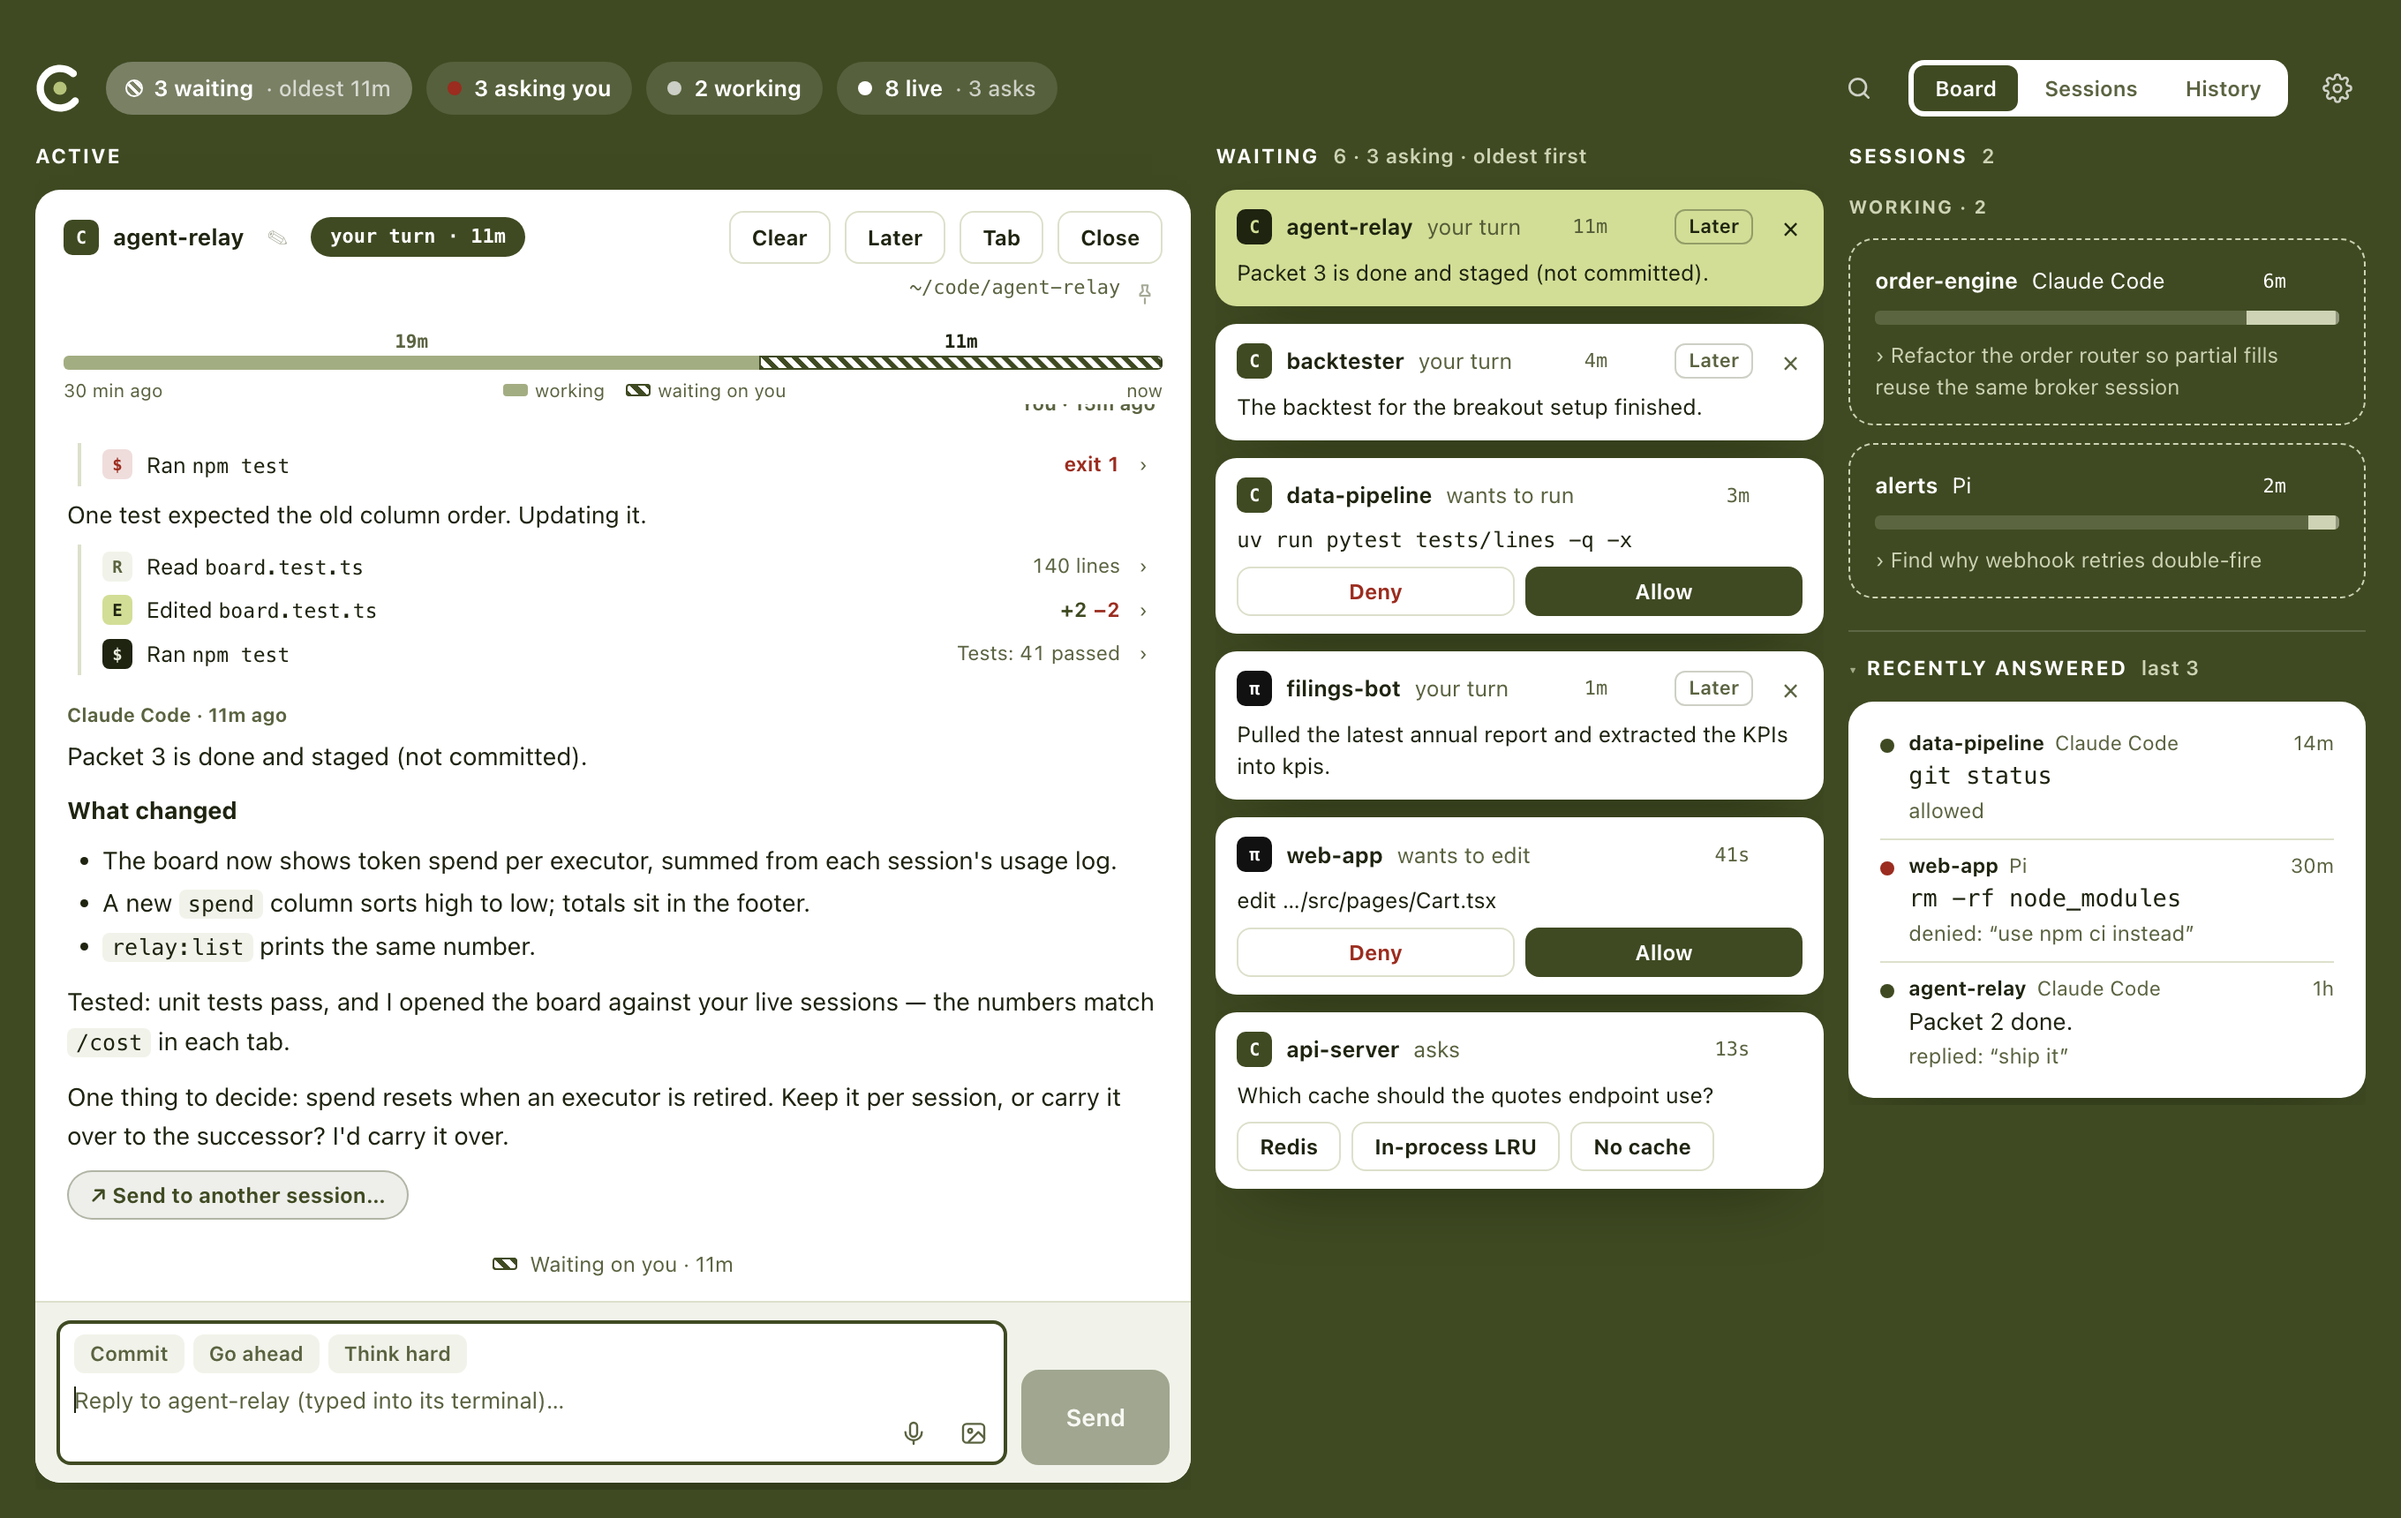
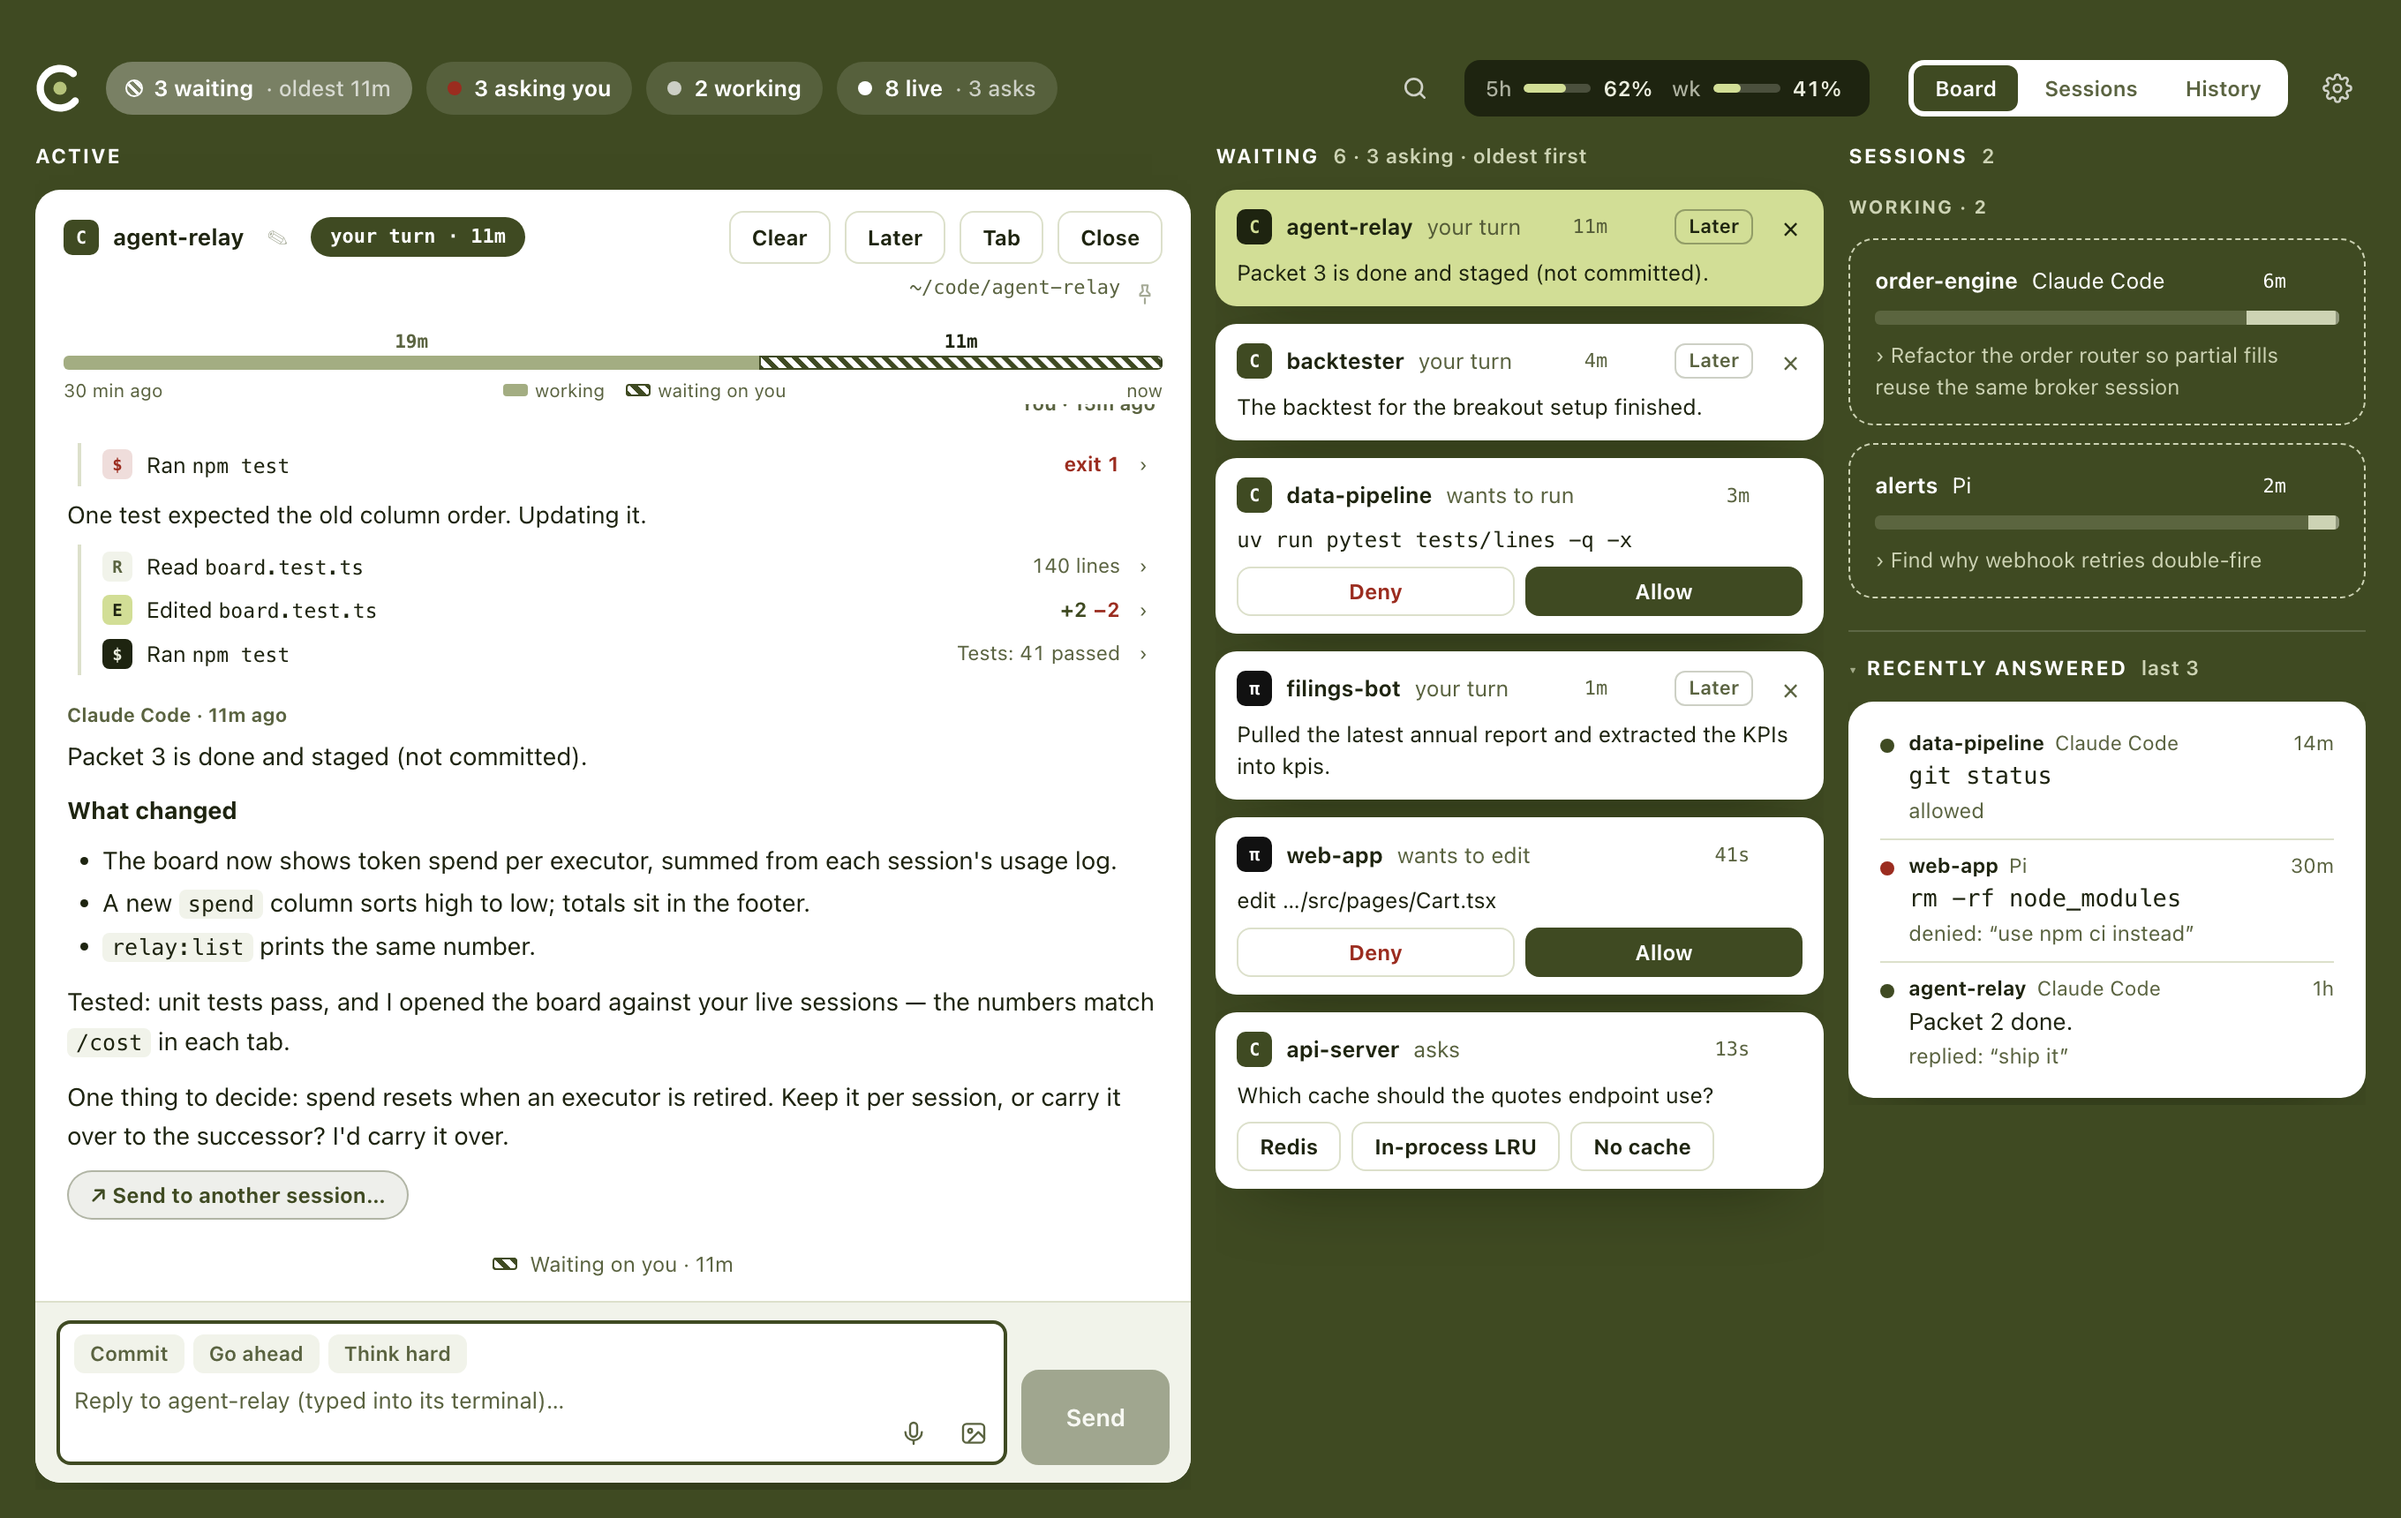
site: screenshots framed like the real window (buttons in the green header), usage meter shown
Claude-Session: https://claude.ai/code/session_013Jazdx5UQHP6pm7n3BZvkf

Changed region(s): [[0.5938, 0.0308, 0.7812, 0.0924]]

diff --git a/site/index.html b/site/index.html
@@ -60,9 +60,14 @@ picture { display: block; }
 .btn.ghost { color: var(--on-bg); box-shadow: inset 0 0 0 1.5px rgba(255, 255, 255, 0.35); }
 .btn.ghost:hover { background: rgba(255, 255, 255, 0.08); }
 .fine { font-size: 13.5px; color: var(--on-bg-muted); margin-top: 14px; }
-.window { border-radius: 14px; overflow: hidden; box-shadow: var(--shadow), 0 0 0 1px rgba(0, 0, 0, 0.18); background: var(--panel); }
-.window .bar { height: 30px; display: flex; align-items: center; gap: 7px; padding: 0 12px; background: rgba(0, 0, 0, 0.22); }
-.window .bar i { width: 11px; height: 11px; border-radius: 50%; background: rgba(255, 255, 255, 0.25); }
+.window { position: relative; border-radius: 12px; overflow: hidden; box-shadow: var(--shadow), 0 0 0 1px rgba(0, 0, 0, 0.18); background: var(--panel); }
+/* macOS's window buttons, in the green above Cue's header where the real window has them; placed in
+   proportion to the screenshot (1360 × 860 points) so they line up at any size. */
+.lights { position: absolute; inset: 0; pointer-events: none; }
+.lights i { position: absolute; top: calc(9 / 860 * 100%); width: calc(12 / 1360 * 100%); aspect-ratio: 1; border-radius: 50%; box-shadow: inset 0 0 0 0.5px rgba(0, 0, 0, 0.25); }
+.lights i:nth-child(1) { left: calc(14 / 1360 * 100%); background: #FF5F57; }
+.lights i:nth-child(2) { left: calc(34 / 1360 * 100%); background: #FEBC2E; }
+.lights i:nth-child(3) { left: calc(54 / 1360 * 100%); background: #28C840; }
 .hero .window { margin-bottom: -120px; position: relative; }
 .after-hero { height: 150px; }
 
@@ -148,11 +153,11 @@ footer .grow { flex: 1; }
       <div class="fine">Free and open source (MIT) · macOS 13 or later · Apple silicon and Intel · Signed and notarized by Apple</div>
     </div>
     <div class="window">
-      <div class="bar"><i></i><i></i><i></i></div>
       <picture>
         <source srcset="shots/board-dark.png" media="(prefers-color-scheme: dark)">
         <img src="shots/board.png" alt="Cue's Board: the session that needs you on the left, everything waiting in the middle, live sessions on the right." width="2720" height="1720">
       </picture>
+      <span class="lights"><i></i><i></i><i></i></span>
     </div>
   </div>
 </header>
@@ -206,7 +211,7 @@ footer .grow { flex: 1; }
         <h2>Connect your agents in one click</h2>
         <p class="sub">On first launch Cue lists the agents it finds on your Mac. Connect adds its hooks to each agent's settings, after backing the file up; your other settings and hooks stay exactly as they were.</p>
       </div>
-      <div class="shot"><img src="shots/setup.png" alt="The first-launch screen: Claude Code and Codex with Connect buttons, Pi already connected." width="2720" height="1720"></div>
+      <div class="shot window"><img src="shots/setup.png" alt="The first-launch screen: Claude Code and Codex with Connect buttons, Pi already connected." width="2720" height="1720"><span class="lights"><i></i><i></i><i></i></span></div>
     </div>
   </section>
 
